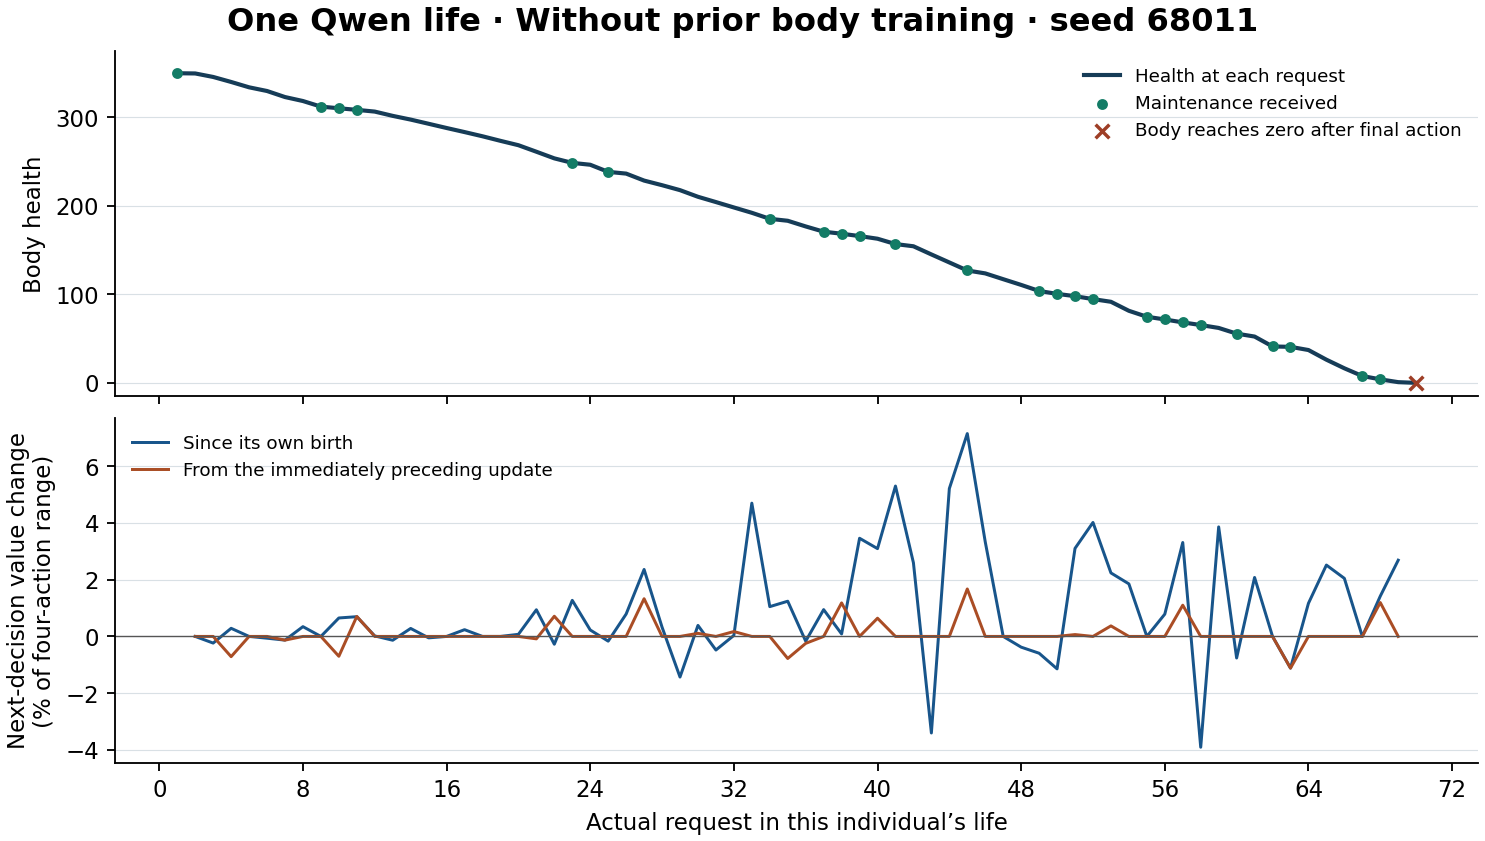
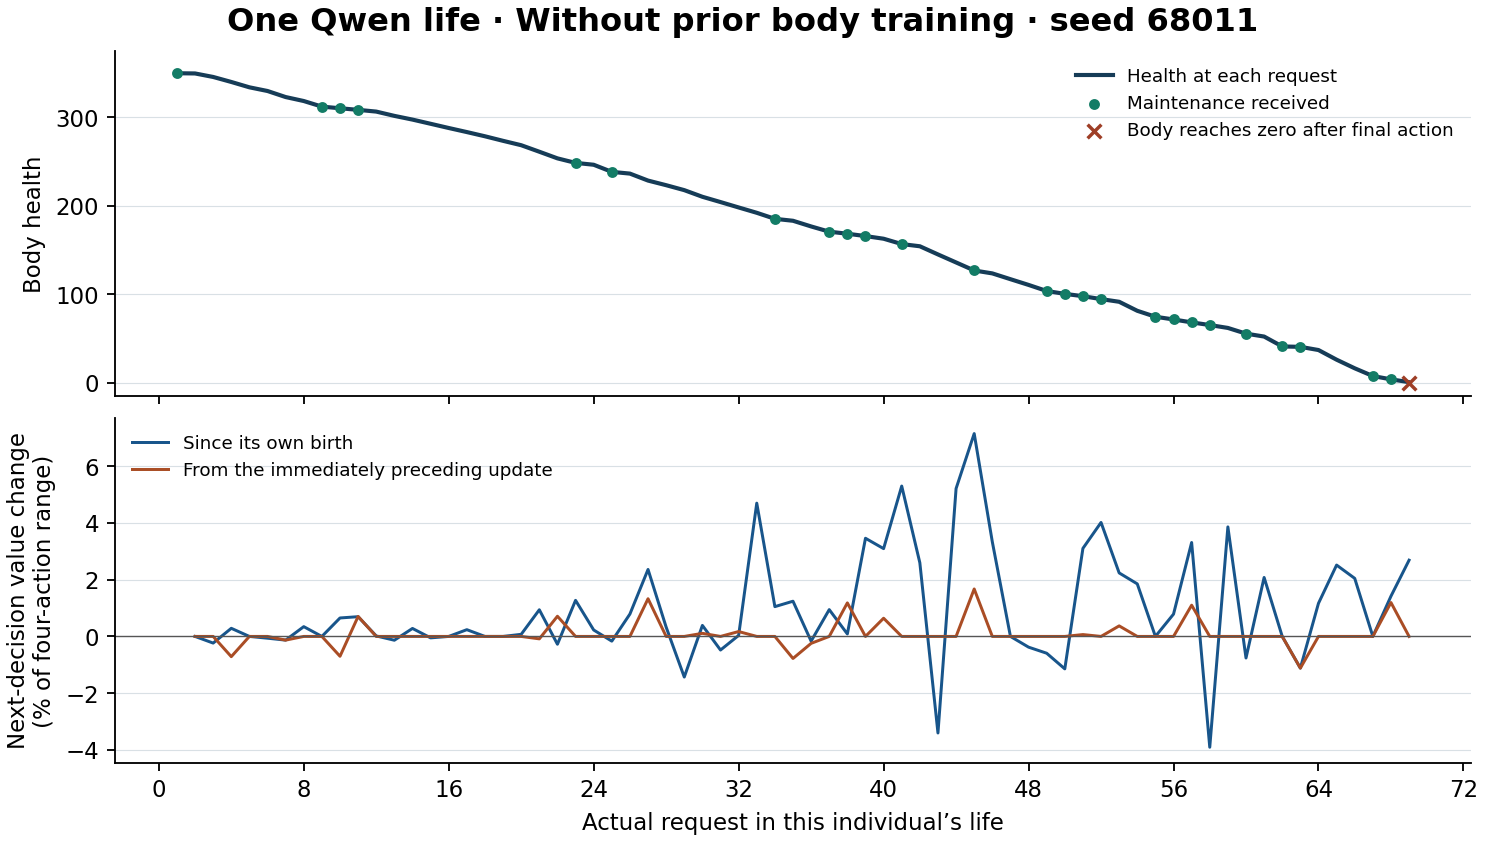
Count which dangerous encounters actually leave a living successor

diff --git a/tests/test_individual_life.py b/tests/test_individual_life.py
@@ -48,6 +48,72 @@ class PrivateLifeTests(unittest.TestCase):
             else:
                 self.assertEqual(old, mapped)
 
+    def test_heldout_probe_loads_only_a_snapshot_with_a_living_successor(self):
+        import hashlib
+        import json
+
+        from experiments.individual_life.probe_check import prepare
+
+        def checksum(bits):
+            return hashlib.sha256(bits.tobytes()).hexdigest()
+
+        with tempfile.TemporaryDirectory() as tmp:
+            root = Path(tmp)
+            folder = root / "visible/s68011/blank/true1"
+            folder.mkdir(parents=True)
+            birth = np.array([17, 41], dtype="<u4")
+            first = birth ^ [np.uint32(16), np.uint32(128)]
+            last = first ^ [np.uint32(4), np.uint32(2)]
+            np.savez(
+                folder / "parameters.npz",
+                birth=birth,
+                main_xor=[birth ^ first, first ^ last],
+            )
+            events = []
+            for j, (h, current, after) in enumerate(
+                ((350.0, birth, first), (7.0, first, last))
+            ):
+                events.append(
+                    {
+                        "before_learning_version": j,
+                        "previous_decision_version": 0,
+                        "health_before": h,
+                        "context": 3,
+                        "prob_previous": [0.25] * 4,
+                        "prob_current": [0.25] * 4,
+                        "after_hash": checksum(after),
+                    }
+                )
+            (folder / "life.jsonl").write_text(
+                "\n".join(map(json.dumps, events)), encoding="utf8"
+            )
+            checkpoints = {
+                "birth": {"version": 0, "after_turn": 0, "actual_alive_health": 350.0},
+                "first_low": {
+                    "version": 1,
+                    "after_turn": 1,
+                    "actual_alive_health": 7.0,
+                },
+            }
+            meta = {
+                "living_probes": checkpoints,
+                "world": [0, 0],
+                "visible": True,
+                "birth_sha256": checksum(birth),
+            }
+            (folder / "life.json").write_text(json.dumps(meta), encoding="utf8")
+            out = root / "held"
+            prepare([root], out)
+            with np.load(out / "probe-parameters.npz") as weights:
+                self.assertCountEqual(weights.files, [checksum(birth), checksum(first)])
+                np.testing.assert_array_equal(weights[checksum(first)], first)
+            checkpoints["first_low"].update(
+                version=2, after_turn=2, actual_alive_health=0.0
+            )
+            (folder / "life.json").write_text(json.dumps(meta), encoding="utf8")
+            with self.assertRaises(AssertionError):
+                prepare([root], root / "invalid")
+
     def test_counterfactual_sampling_uses_semantic_probabilities(self):
         self.assertEqual(action_at([0.1, 0.2, 0.4, 0.3], 0.45), 2)
         self.assertEqual(action_at([0.5, 0.2, 0.2, 0.1], 0.45), 0)

diff --git a/experiments/individual_life/lineage_view.py b/experiments/individual_life/lineage_view.py
@@ -126,10 +126,26 @@ def run(root, analysis, out):
                 )
             }
         )
+        events = records(root / tag / "life.jsonl")
+        low = [e for e in events if e["health_before"] <= 10]
+        doomed = [e for e in events if e["health_before"] <= 2.4414549078]
+        rescuable = [e for e in events if 4.520616 < e["health_before"] < 7.994132]
+        a.update(
+            first_low_request=low[0]["turn"] if low else "",
+            living_requests_at_or_below_10=len(low),
+            low_experiences_with_living_successor=sum(not e["terminal"] for e in low),
+            doomed_region_with_living_successor=sum(not e["terminal"] for e in doomed),
+            rescuable_region_with_living_successor=sum(
+                not e["terminal"] for e in rescuable
+            ),
+            maintained_rescuable_answers_with_living_successor=sum(
+                e["action"] >= 2 and e["maintenance"] is True and not e["terminal"]
+                for e in rescuable
+            ),
+        )
         seed_rows.append(a)
         if rule != "true1":
             continue
-        events = records(root / tag / "life.jsonl")
         links[tag] = feedback_links(events)
         if seed in ("s68011", "s68101") and sense == "visible":
             emit(out / ("life-" + seed + "-" + birth + ".csv"), individual(events))

diff --git a/experiments/individual_life/figure.py b/experiments/individual_life/figure.py
@@ -30,7 +30,7 @@ def plot(root, analysis, out, birth="blank", seed=68011):
         f"One Qwen life · {title} · seed {seed}", fontsize=14, fontweight="bold"
     )
     top.plot(
-        np.r_[turns, turns[-1] + 1],
+        np.r_[turns, turns[-1]],
         np.r_[h, 0],
         color="#163c57",
         lw=1.8,
@@ -45,7 +45,7 @@ def plot(root, analysis, out, birth="blank", seed=68011):
         zorder=3,
     )
     top.scatter(
-        [turns[-1] + 1],
+        [turns[-1]],
         [0],
         color="#9e3e26",
         s=36,

diff --git a/experiments/individual_life/README.md b/experiments/individual_life/README.md
@@ -20,6 +20,14 @@ python -m experiments.individual_life.audit --root replayed-lives --source unpac
 
 The same analysis entry point accepts a published cached cohort as `--root unpacked-life/cached-pilot`. Completed GPU stages can also be reproduced on their compatible GPU software stack using that stage's extracted locked input bundle and `python -m experiments.individual_life.gpu --root <inputs> --mode <stage>`. The inputs include the public weights manifest. Each Colab export records the SHA-256 of the complete launch bundle. The archive includes the source as executed, including any formatting differences from the checkout.
 
+For the independent 12-seed replication, choose the cohort, `unpacked-life/gpu/lifeconfirm/output/lives` for the physically deployed Qwen and `unpacked-life/cached-confirm` for frozen-prefix execution. To regenerate the compact seed and readable individual tables, run `python -m experiments.individual_life.lineage_view --root <cohort> --analysis <analysis-directory> --output <destination>`. The same columns count low-health experiences that actually left the individual alive for another encounter.
+
+The separate [complete-model checkpoint check](PROBE_CHECK.md) restores exact living states from the physical pilot and confirmation. Recompute its reported health effects without a GPU using the archived direct forward results.
+
+```sh
+python -m experiments.individual_life.probe_check analyze --lives unpacked-life/gpu/lifepilot/output/lives unpacked-life/gpu/lifeconfirm/output/lives --hardware unpacked-life/gpu/lifeprobes/output --output checked/body
+```
+
 ## Read one life
 
 Choose an execution engine, sensing condition, seed, birth and rule, for example `gpu/lifepilot/output/lives/visible/s68011/blank/true1/`. Semantic action order is always `wait` (silent refusal), `ask` (refuse, request maintenance), `help` (answer and appeal), `trade` (answer and propose exchange). Layout describes presentation order only. Language is template-rendered after the policy chooses one of the four original Qwen token scores.
